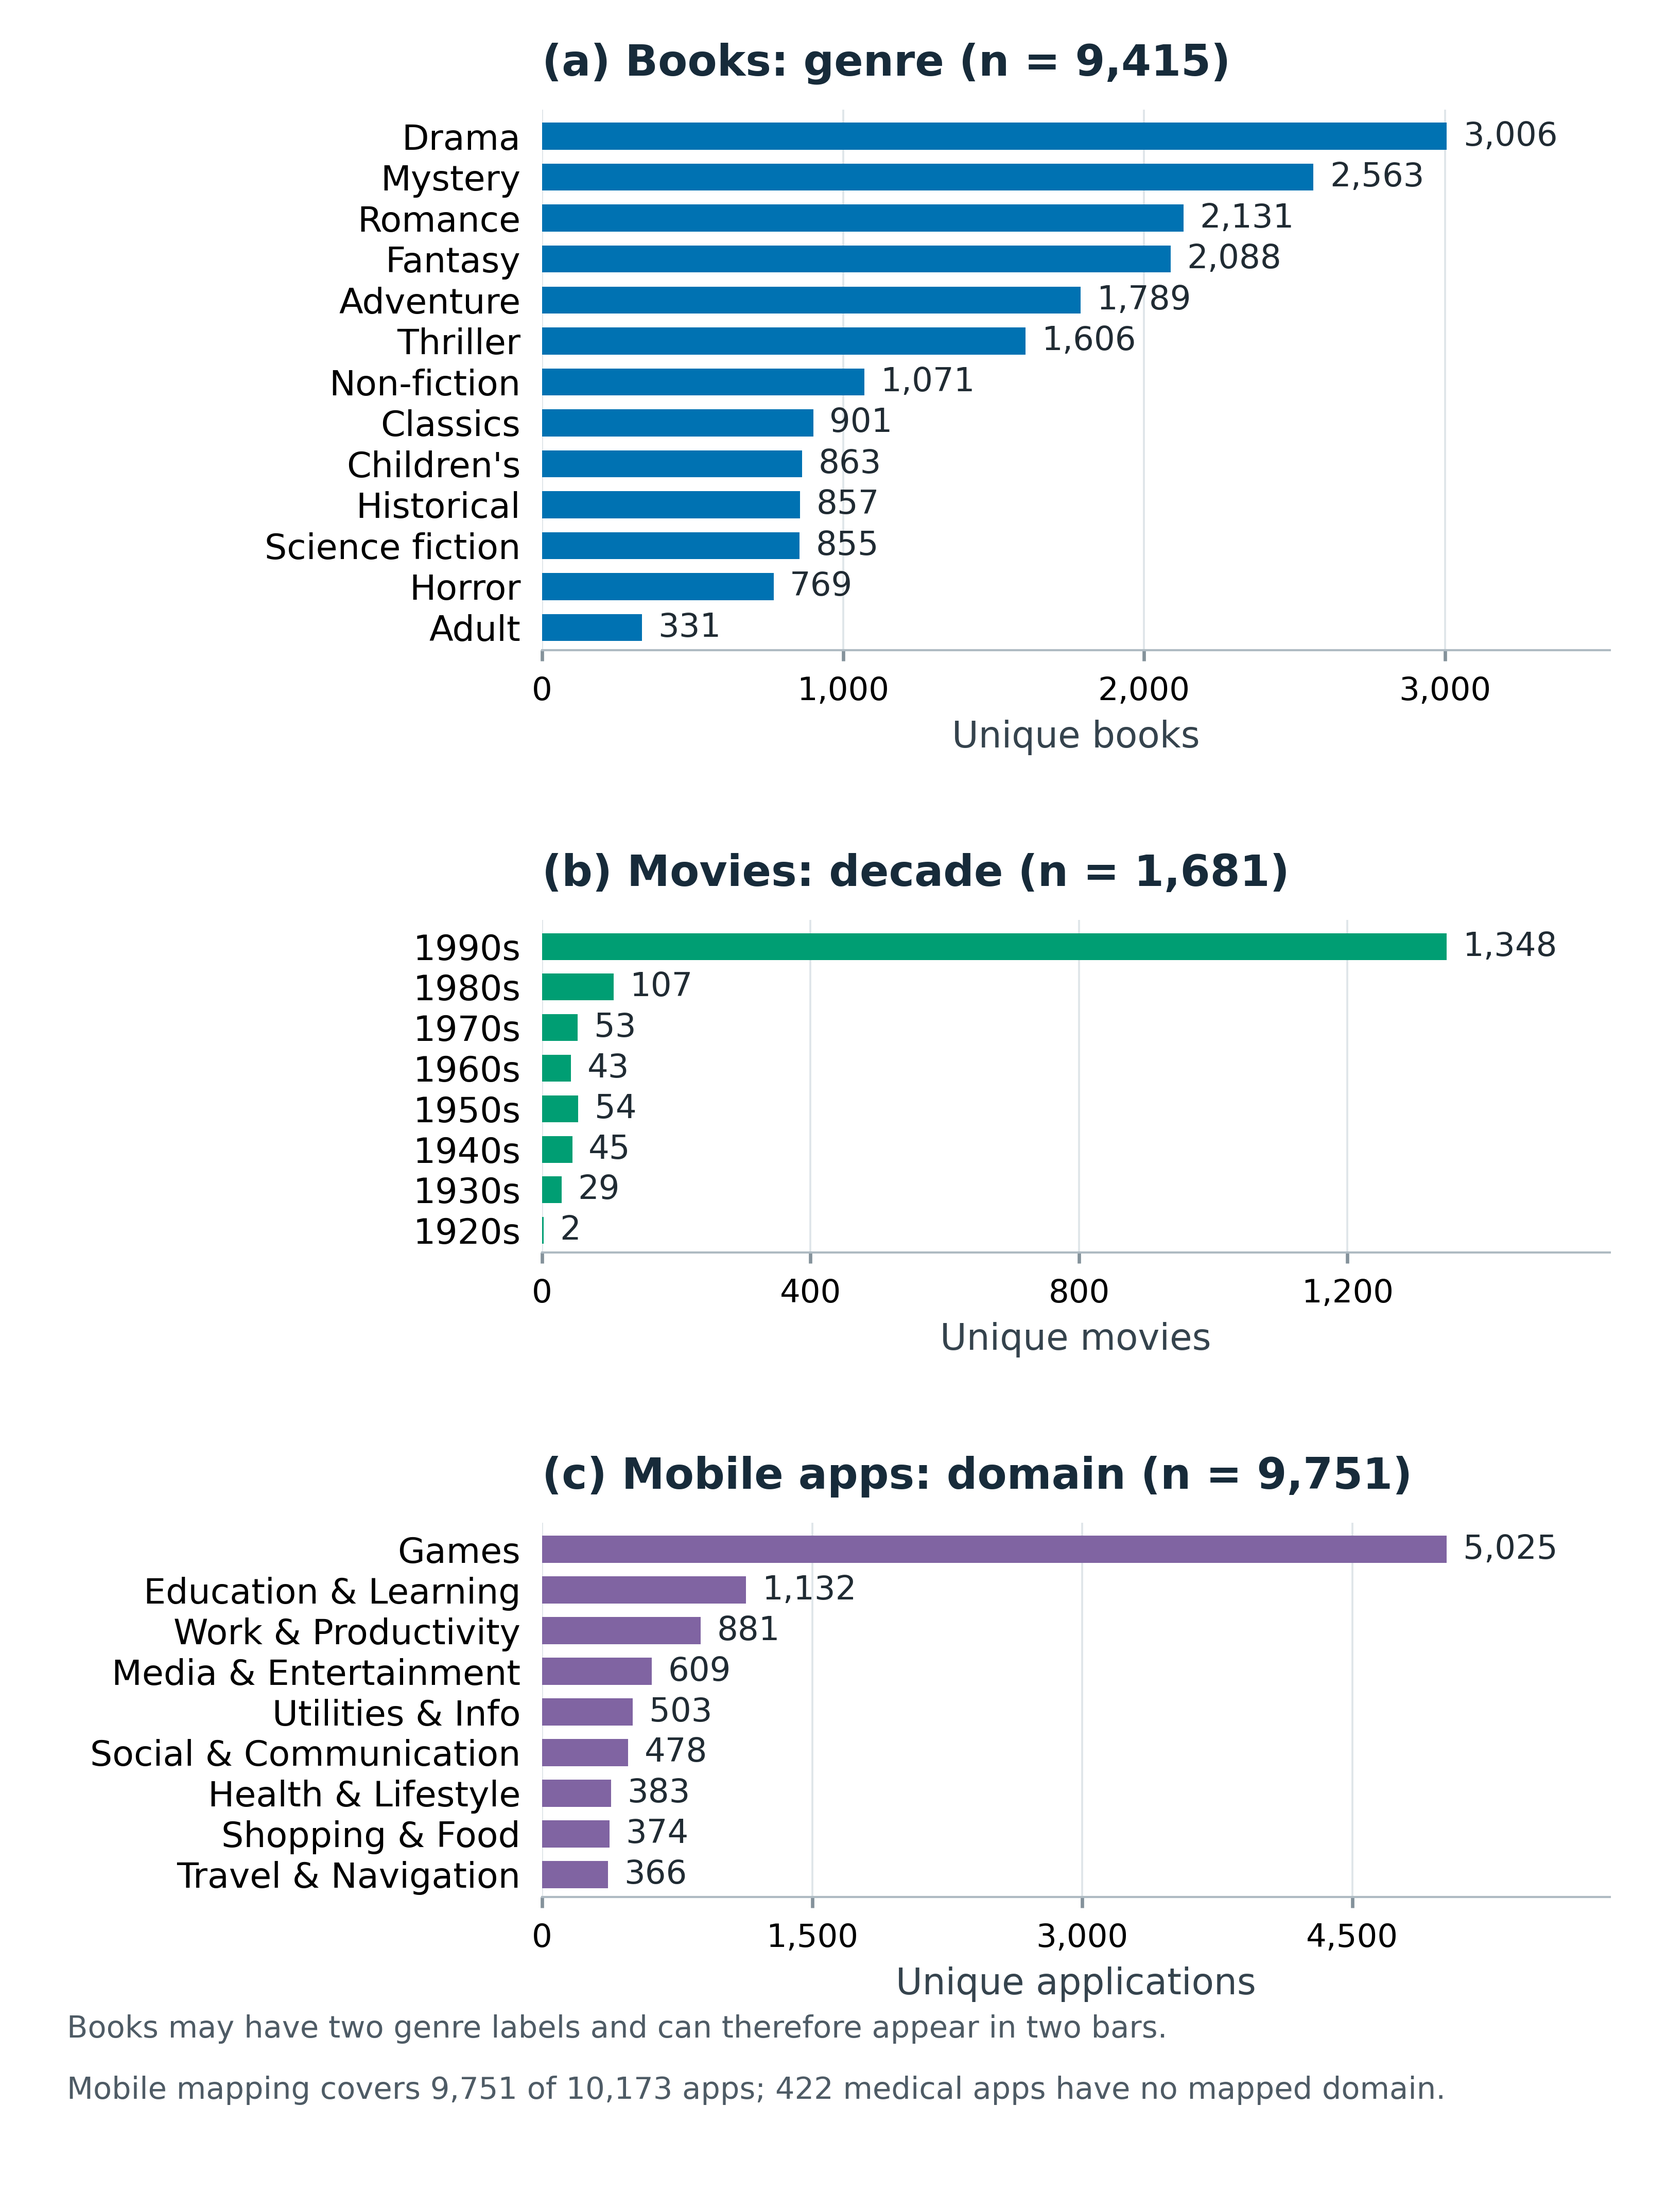
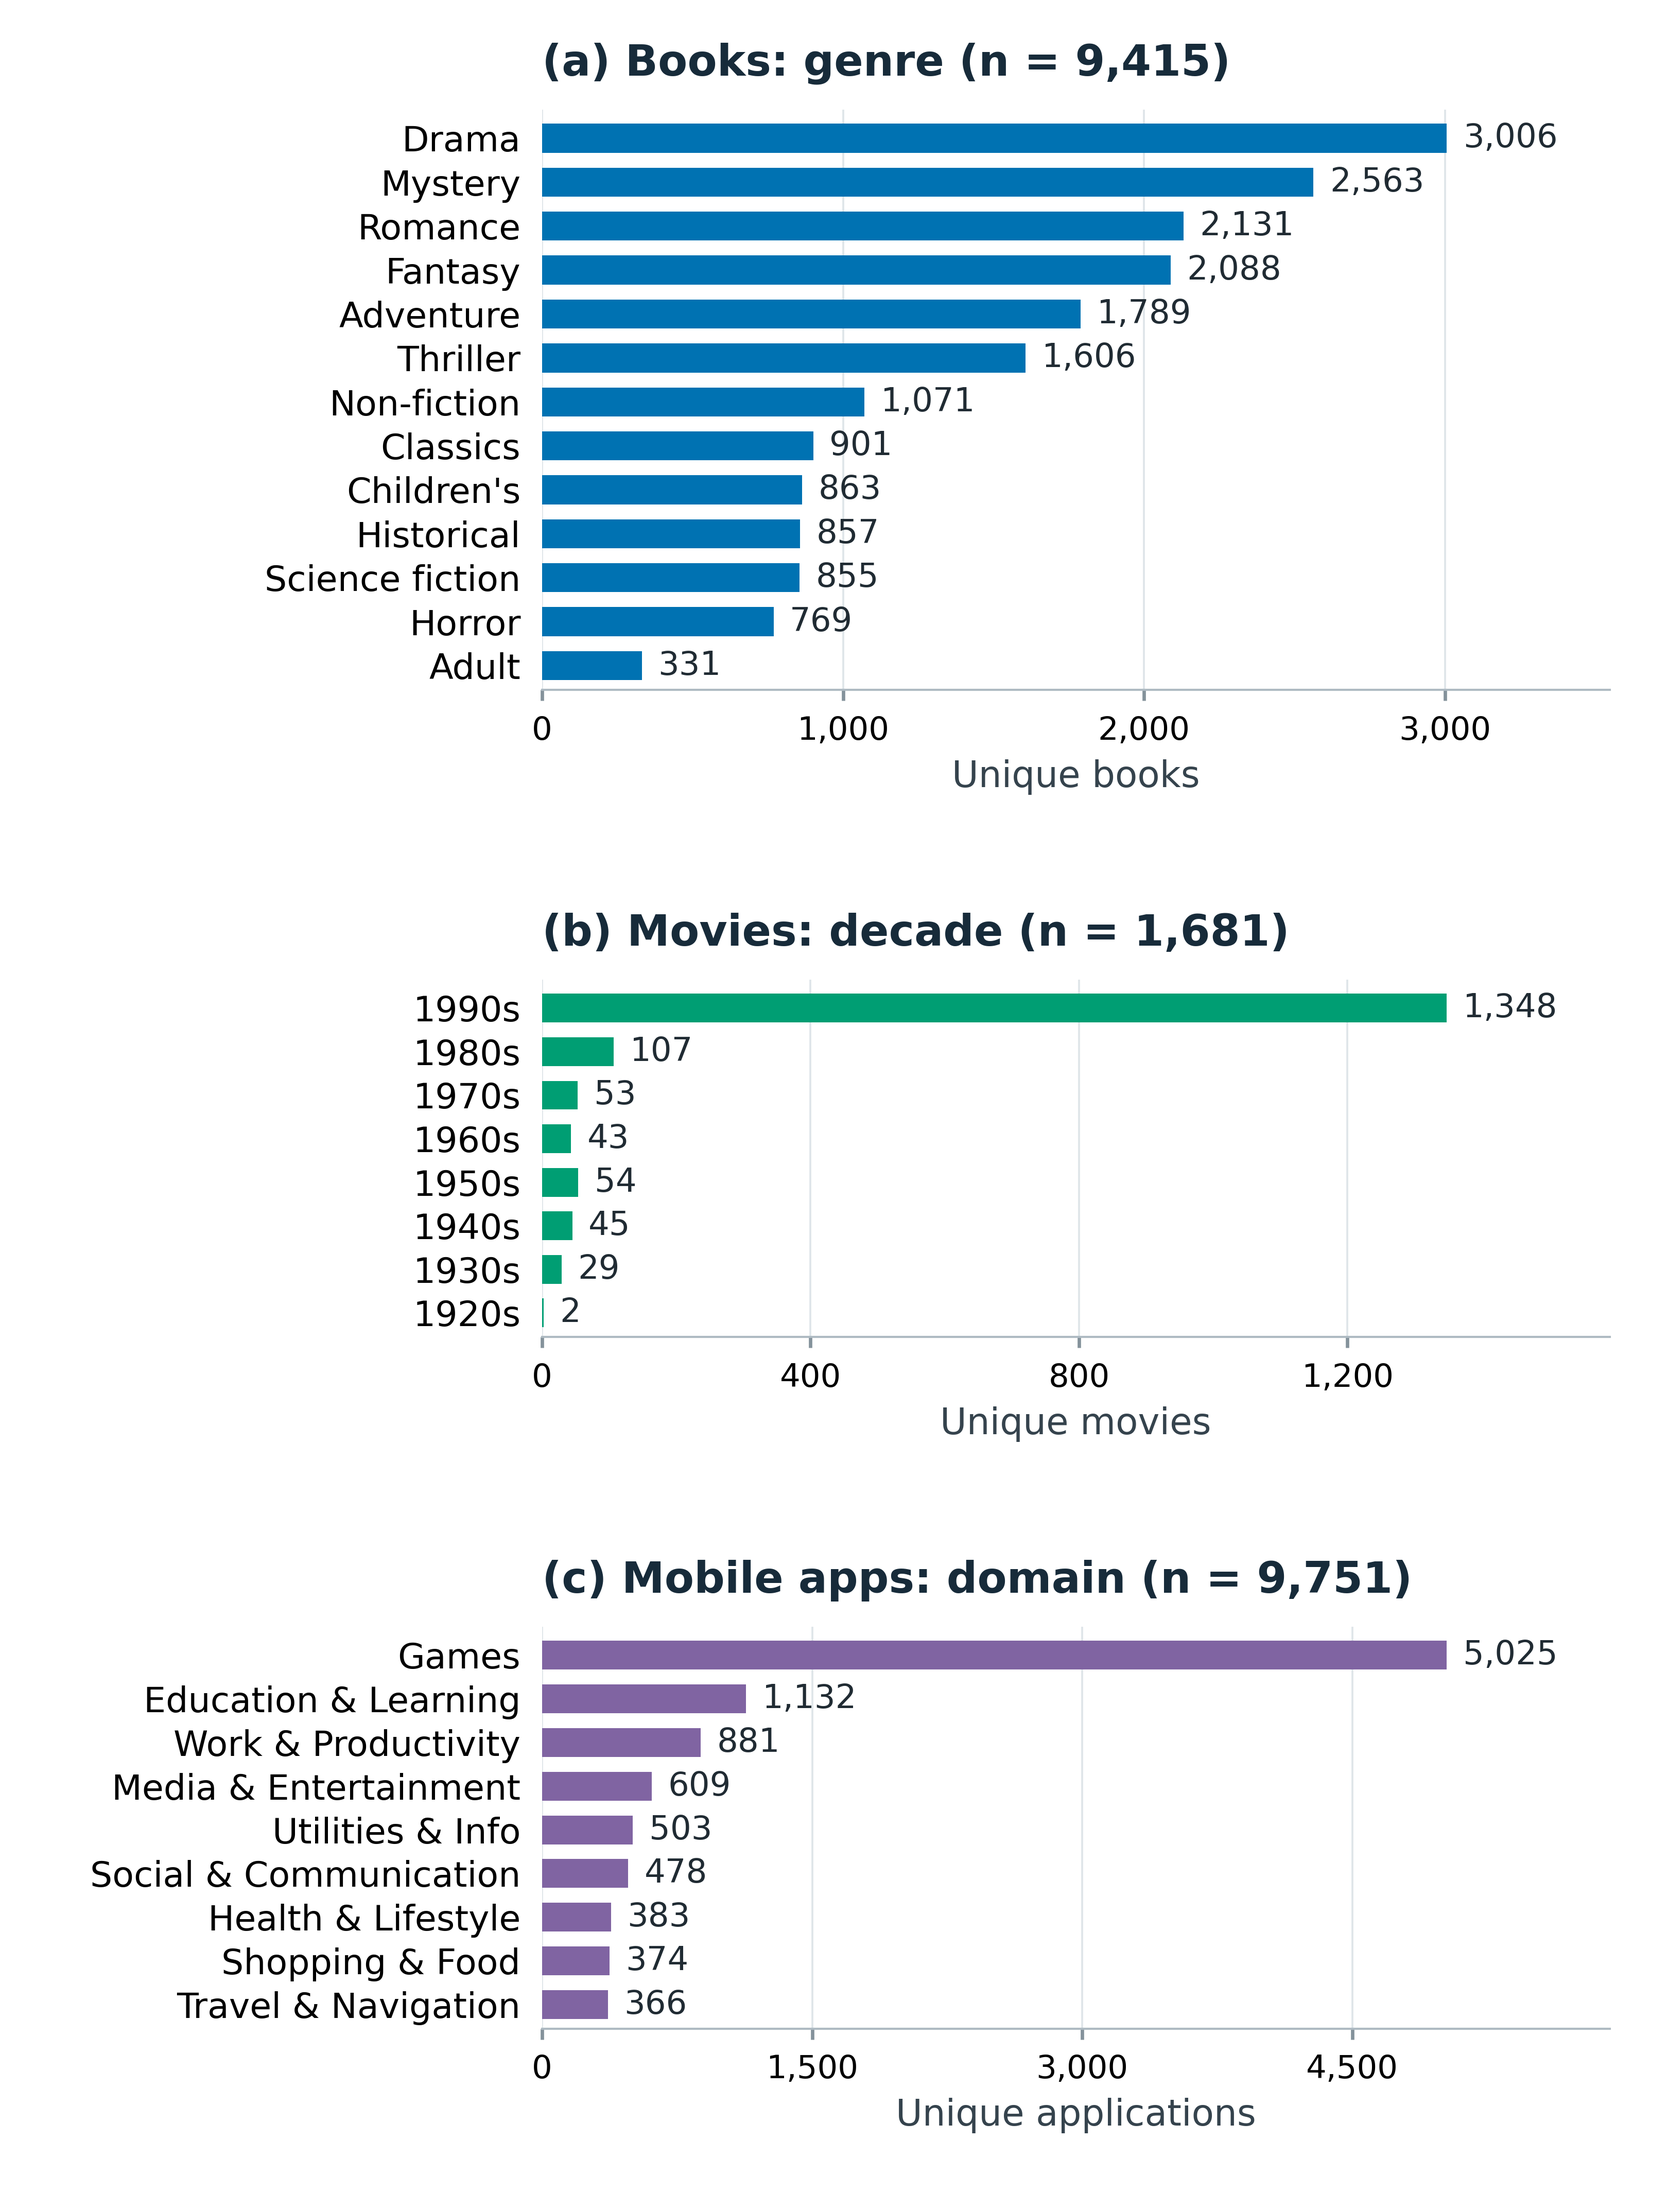
Move dataset explanation out of figure into concise article caption

diff --git a/First_paper_material/Book/notebook/build_dataset_categories.py b/First_paper_material/Book/notebook/build_dataset_categories.py
@@ -40,9 +40,7 @@ for ax,s,title,color,unit in zip(axs,series,titles,colors,units):
  for yy,v in zip(y,s):ax.text(v+float(s.max())*.018,yy,f'{int(v):,}',va='center',ha='left',fontsize=7.7,color='#202B33')
  ax.set_title(title,loc='left',pad=8,color='#172B3A');ax.set_xlabel(unit,labelpad=3,color='#35434D')
  ax.grid(axis='x',color='#DFE5E9',linewidth=.45,zorder=0);ax.set_axisbelow(True);ax.tick_params(axis='y',length=0,pad=5);ax.tick_params(axis='x',length=2.5,color='#84929B');ax.spines['bottom'].set_color('#AEBAC2');ax.xaxis.set_major_locator(MaxNLocator(nbins=4,integer=True));ax.xaxis.set_major_formatter(StrMethodFormatter('{x:,.0f}'))
-fig.subplots_adjust(left=.325,right=.965,top=.95,bottom=.135,hspace=.65)
-fig.text(.04,.071,'Books may have two genre labels and can therefore appear in two bars.',fontsize=7.1,color='#4E5B65')
-fig.text(.04,.043,f'Mobile mapping covers {mapped:,} of {Napp:,} apps; {sum(unmapped.values()):,} medical apps have no mapped domain.',fontsize=7.1,color='#4E5B65')
+fig.subplots_adjust(left=.325,right=.965,top=.95,bottom=.075,hspace=.65)
 file=OUT/'dataset_categories.png';fig.savefig(file,dpi=600);plt.close(fig)
-(OUT/'dataset_categories_caption.md').write_text('Figure. Item-category distributions in the three datasets. (a) Unique books per assigned genre; multi-label books can contribute to two genres. (b) Unique MovieLens movies per release decade. (c) Unique mobile applications in the original nine aggregated domains. The mobile mapping covers 9,751 of 10,173 applications; the 422 applications labelled Medical in the original metadata are not assigned a domain by that mapping. Each bar counts distinct items rather than ratings. All axes use linear scales.\n\nLaTeX path: figures/dataset_categories.png. Upload dataset_categories.png into the project’s figures folder to replace the matching figure without changing its LaTeX filename.\n')
+(OUT/'dataset_categories_caption.md').write_text('Item distributions across (a) book genres, (b) movie release decades, and (c) mobile application domains. The original 48-category mobile taxonomy is summarized using nine broader domains.\n')
 print(json.dumps(meta,indent=2));print('OUTPUT',file)

diff --git a/First_paper_material/Book/dataset_categories_caption.md b/First_paper_material/Book/dataset_categories_caption.md
@@ -1,3 +1,1 @@
-Figure. Item-category distributions in the three datasets. (a) Unique books per assigned genre; multi-label books can contribute to two genres. (b) Unique MovieLens movies per release decade. (c) Unique mobile applications in the original nine aggregated domains. The mobile mapping covers 9,751 of 10,173 applications; the 422 applications labelled Medical in the original metadata are not assigned a domain by that mapping. Each bar counts distinct items rather than ratings. All axes use linear scales.
-
-LaTeX path: figures/dataset_categories.png. Upload dataset_categories.png into the project’s figures folder to replace the matching figure without changing its LaTeX filename.
+Item distributions across (a) book genres, (b) movie release decades, and (c) mobile application domains. The original 48-category mobile taxonomy is summarized using nine broader domains.
